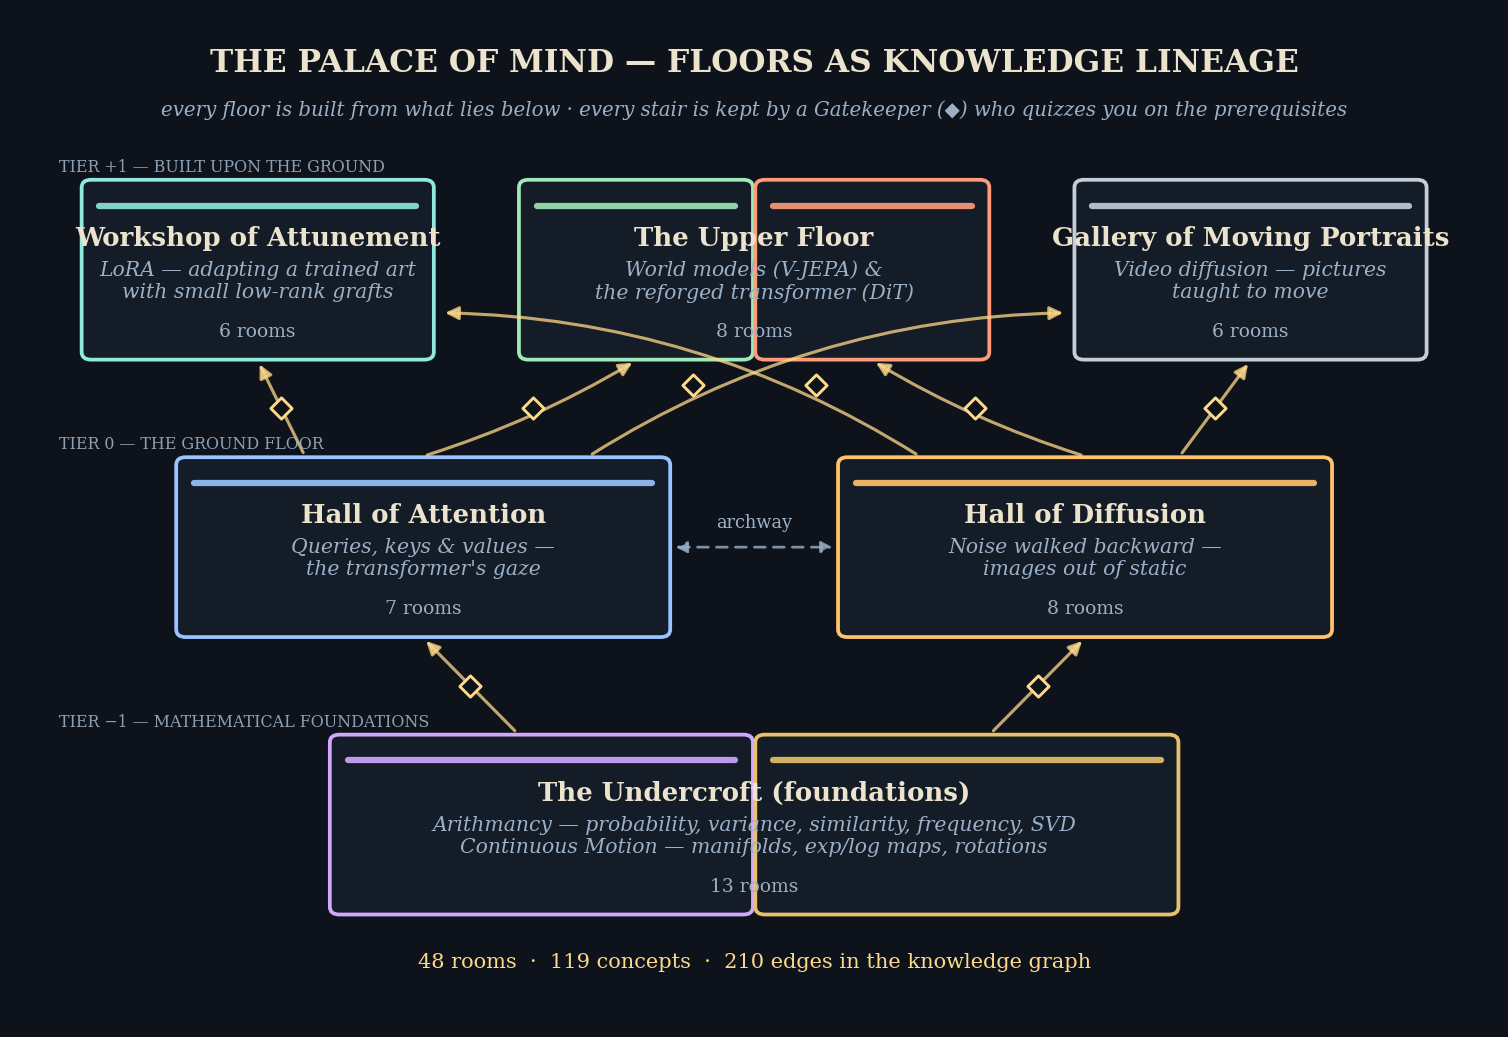
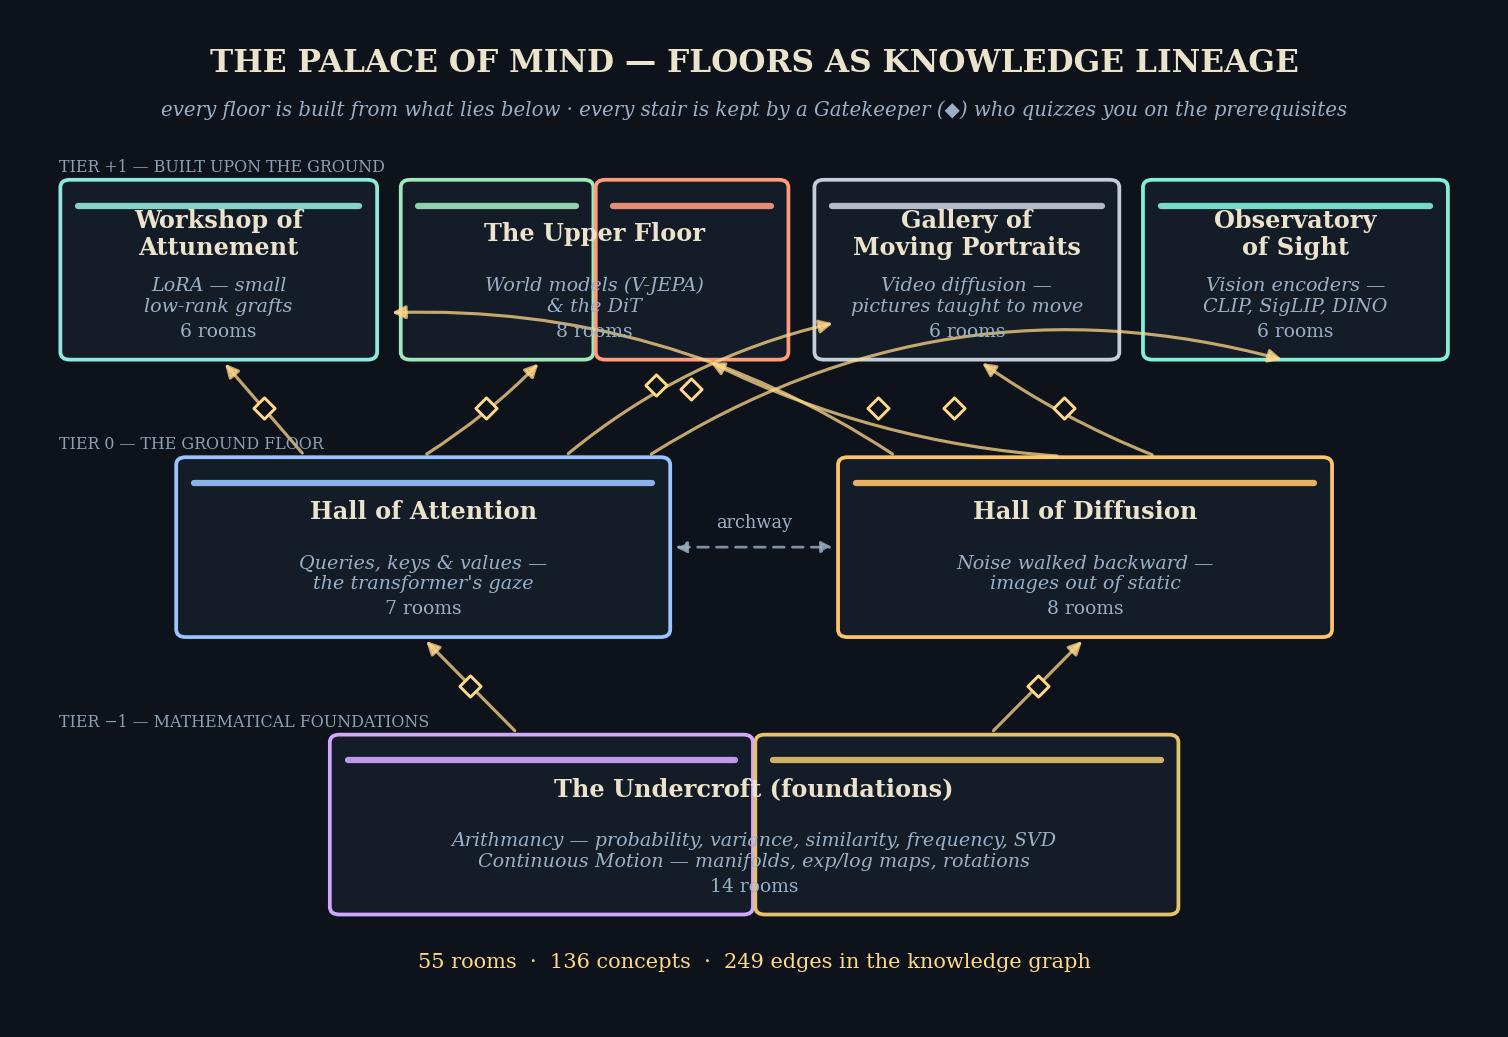
README refresh: live link, widgets, events/music, current map
- Link the hosted palace (GitHub Pages) at the top.
- Current numbers: 55 rooms / 7 floors / 136 concepts / 249 edges.
- New sections: floating widget library (22 animated diagrams over every
  text display), ambient events + procedural score; N key documented.
- Gemma section reflects scroll-on-request and the no-backend fallback.
- Layout tree gains widgets/actors/events/music + world/events.json.
- readme_map.py: tier +1 now draws all four upper floors (Observatory of
  Sight was missing); palace-map.png regenerated from live world data.

diff --git a/tools/readme_map.py b/tools/readme_map.py
@@ -50,10 +50,10 @@ def tower(x, y, w, h, palettes, title, sub, rooms):
                 [y + h - 0.28, y + h - 0.28], color=c, lw=3, alpha=0.9,
                 solid_capstyle="round")
     cx = x + w / 2
-    ax.text(cx, y + h - 0.62, title, ha="center", va="center",
-            color=INK, fontsize=12.5, fontweight="bold")
-    ax.text(cx, y + h / 2 - 0.12, sub, ha="center", va="center",
-            color=MUTED, fontsize=9.8, style="italic")
+    ax.text(cx, y + h - 0.58, title, ha="center", va="center",
+            color=INK, fontsize=11.5, fontweight="bold")
+    ax.text(cx, y + h / 2 - 0.28, sub, ha="center", va="center",
+            color=MUTED, fontsize=9.2, style="italic")
     ax.text(cx, y + 0.30, f"{rooms} rooms", ha="center", va="center",
             color=MUTED, fontsize=9)
     return cx, y, y + h  # center-x, bottom-y, top-y
@@ -69,16 +69,19 @@ def stair(x0, y0, x1, y1, bend=0.0, gated=True):
                    linewidth=1.4, zorder=3)
 
 H = 1.9
-# Tier +1 — three towers.
-att = tower(0.3, 6.6, 3.0, H, ["obsidian"],
-            "Workshop of Attunement", "LoRA — adapting a trained art\nwith small low-rank grafts",
+# Tier +1 — four towers.
+att = tower(0.12, 6.6, 2.7, H, ["obsidian"],
+            "Workshop of\nAttunement", "LoRA — small\nlow-rank grafts",
             per_level["attunement"])
-wm = tower(4.0, 6.6, 4.0, H, ["emerald", "crimson"],
-           "The Upper Floor", "World models (V-JEPA) &\nthe reforged transformer (DiT)",
+wm = tower(3.0, 6.6, 3.3, H, ["emerald", "crimson"],
+           "The Upper Floor", "World models (V-JEPA)\n& the DiT",
            per_level["world-models"])
-vid = tower(8.7, 6.6, 3.0, H, ["silver"],
-            "Gallery of Moving Portraits", "Video diffusion — pictures\ntaught to move",
+vid = tower(6.5, 6.6, 2.6, H, ["silver"],
+            "Gallery of\nMoving Portraits", "Video diffusion —\npictures taught to move",
             per_level["video"])
+vis = tower(9.28, 6.6, 2.6, H, ["verdigris"],
+            "Observatory\nof Sight", "Vision encoders —\nCLIP, SigLIP, DINO",
+            per_level["vision"])
 
 # Tier 0 — the ground floor.
 attn = tower(1.1, 3.7, 4.2, H, ["sapphire"],
@@ -98,12 +101,13 @@ und = tower(2.4, 0.8, 7.2, H, ["violet", "bronze"],
 # Stairs (every one kept by a Gatekeeper) + the sibling archway.
 stair(4.0, 2.7, 3.2, 3.7)              # undercroft -> attention
 stair(8.0, 2.7, 8.8, 3.7)              # undercroft -> diffusion
-stair(3.2, 5.6, 5.0, 6.6, bend=0.06)   # attention -> upper floor
-stair(8.8, 5.6, 7.0, 6.6, bend=-0.06)  # diffusion -> upper floor
-stair(2.2, 5.6, 1.8, 6.6)              # attention -> attunement
-stair(7.4, 5.6, 3.35, 7.1, bend=0.14)  # diffusion -> attunement
-stair(9.6, 5.6, 10.2, 6.6)             # diffusion -> video
-stair(4.6, 5.6, 8.65, 7.1, bend=-0.14) # attention -> video
+stair(3.2, 5.6, 4.2, 6.6, bend=0.06)   # attention -> upper floor
+stair(8.6, 5.6, 5.6, 6.6, bend=-0.1)   # diffusion -> upper floor
+stair(2.2, 5.6, 1.5, 6.6)              # attention -> attunement
+stair(7.2, 5.6, 2.9, 7.1, bend=0.16)   # diffusion -> attunement
+stair(9.4, 5.6, 7.9, 6.6, bend=-0.06)  # diffusion -> video
+stair(4.4, 5.6, 6.7, 7.0, bend=-0.12)  # attention -> video
+stair(5.1, 5.6, 10.5, 6.6, bend=-0.22) # attention -> observatory of sight
 ax.add_patch(FancyArrowPatch((5.3, 4.65), (6.7, 4.65),
              arrowstyle="<|-|>", mutation_scale=11, linewidth=1.3,
              color=MUTED, alpha=0.8, linestyle=(0, (4, 3))))

diff --git a/README.md b/README.md
@@ -8,8 +8,15 @@ a 3D chamber you can physically walk through.*
        alt="Walking out of the Undercroft into the Wing of Continuous Motion">
 </p>
 
-Artifacts are working metaphors, plaques carry the distilled mechanics, tomes hold full
-source texts, and a knowledge graph keeps every idea connected to the ideas it builds on.
+**Walk it now:** the palace is live at
+**[singh-sid930.github.io/mind-palace](https://singh-sid930.github.io/mind-palace/)** —
+nothing to install. (The Gemma companion stays home; everything else travels.)
+
+Artifacts are working metaphors, plaques carry the distilled mechanics with worked
+examples, tomes hold full source texts — and **every text display has a small animated
+diagram floating above it**, so the intuition moves even before you read. A knowledge
+graph keeps every idea connected to the ideas it builds on: **55 rooms across 7
+floors, 136 concepts, 249 typed edges**.
 
 **The core design:** the engine is code, built once; the world is pure data, grown
 forever. Any LLM can extend the palace by writing small JSON files against
@@ -32,6 +39,7 @@ ollama serve             # optional, powers Gemma & the Gatekeepers (gemma3:27b)
 | **G** | the constellation — a 3D map of every idea on every floor |
 | **M** / **F** | this floor's map / floo travel to any chamber by name |
 | **P** | toggle the Marauder's footsteps |
+| **N** | toggle the procedural score (headphones recommended) |
 | **Esc** | close whatever is open |
 
 ## A castle built as a lineage
@@ -44,7 +52,7 @@ concepts before letting you climb. (You can always answer, skip, or walk away.)
 
 <p align="center">
   <img src="docs/media/palace-map.png" width="820"
-       alt="Elevation map: foundations below, attention and diffusion on the ground floor, world models, LoRA and video diffusion above">
+       alt="Elevation map: foundations below, attention and diffusion on the ground floor; LoRA, world models, video diffusion and vision encoders above">
 </p>
 
 ## Exhibits that move like the mathematics
@@ -58,6 +66,14 @@ wraps onto a sphere as a geodesic — the exp map, running on a loop.
   <img src="docs/media/exhibits.gif" width="680"
        alt="Kinetic props: the dissolving cloud, live attention beams, the exp/log sphere">
 </p>
+
+And the motion doesn't stop at the centerpieces. **Every plaque, tome, and portrait
+carries a floating widget** — one of 22 small parametric animated diagrams drawn from
+a shared library (`engine/widgets.js`): softmax bars race and chain to each other, a
+causal mask's upper triangle never lights, random draws rain into a bell histogram,
+the unit circle rides rotate–stretch–rotate through the SVD, a kernel bracket walks a
+signal row, twin beads drift apart where a tangent leaves its curve. Rooms pick a
+widget and its parameters in one line of JSON; the concept chooses the motion.
 
 Press **E** at any diagram or figure and it unfolds as a large panel floating in the
 room — you keep control, so you can step back, walk around it, and read the study card
@@ -91,15 +107,28 @@ exhibits of a room in study order, then the doorway that continues the wing. Pre
        alt="Marauder's-map footprints marching toward the next exhibit, toggled with P">
 </p>
 
+## A castle that lives and sounds
+
+The palace is quietly inhabited. **Ambient events** — a rat scurrying the skirting, a
+grey lady drifting through a wall, a dementor that may summon a patronus — fire every
+half-minute or so, chosen by where you are and what the room teaches, all defined as
+validated data in `world/events.json`. And a **procedural score** (toggle **N**) is
+synthesized entirely from formulas in WebAudio: a breathing harmonic drone, distant
+golden-ratio FM bells, a pink-noise air bed, a subliminal binaural layer that rotates
+calm → focus → alertness, and a distinct distant sting for each of the thirteen event
+actors. No audio files anywhere in the repo.
+
 ## Gemma, the Whispering Sage
 
 A ghost drifts at your shoulder, backed by a local Ollama service (`gemma3:27b` at
 `localhost:11434`; override with `OLLAMA_URL` / `OLLAMA_MODEL`). She knows which room
 you're in, which exhibit you're studying, and the concepts anchored there — so *"why
-doesn't this collapse?"* needs no setup. Short answers come as speech bubbles; anything
-deep is saved as a parchment-styled **scroll** in `scrolls/` with a 📜 link. The same
-service voices the Gatekeepers at the stairs. `serve.py` never starts Ollama itself —
-it only talks to the existing service.
+doesn't this collapse?"* needs no setup. She keeps her answers short; ask her to
+*"write it down"* or *"give me a scroll"* and the full version is saved as a
+parchment-styled **scroll** in `scrolls/` with a 📜 link. The same service voices the
+Gatekeepers at the stairs. `serve.py` never starts Ollama itself — it only talks to
+the existing service. On the hosted site (no backend) the palace degrades gracefully:
+the sage falls silent, the gates open wordlessly, and everything else works.
 
 <p align="center">
   <img src="docs/media/gemma.gif" width="760"
@@ -130,6 +159,7 @@ world/
   world.json        # palace title, levels (floors), wings, passages (stairs/gates)
   rooms/*.json      # one file per room (validated, data-only)
   graph/*.json      # knowledge graph, one fragment per room (concepts + edges)
+  events.json       # ambient events (who appears, where, how rarely) — data too
   catalog.json      # single source of truth for every enum (props, palettes, ...)
   schema.json       # JSON Schema (structure only; enums injected from the catalog)
   assets/*.png      # figures referenced by image exhibits
@@ -141,6 +171,10 @@ engine/             # Three.js renderer — content models never touch this
   levels.js         # lazy floor loading: build on first visit, LRU-dispose the rest
   props.js          # parametric furniture props (primitives only, zero assets)
   kinetics.js       # animated concept props — the motion is the mechanism
+  widgets.js        # floating diagram widgets — 22 parametric animated graphics
+  actors.js         # ambient-event creatures (rat, ghosts, dementor, ...)
+  events.js         # the ambient-event scheduler (data-driven, one live at a time)
+  music.js          # the procedural score — pure WebAudio synthesis, zero assets
   passages.js       # stairs, archways, Gatekeeper spectre, passage signboards
   exhibits.js       # exhibit placement + portals + passage mouths
   constellation.js  # the 3D idea map (G)
